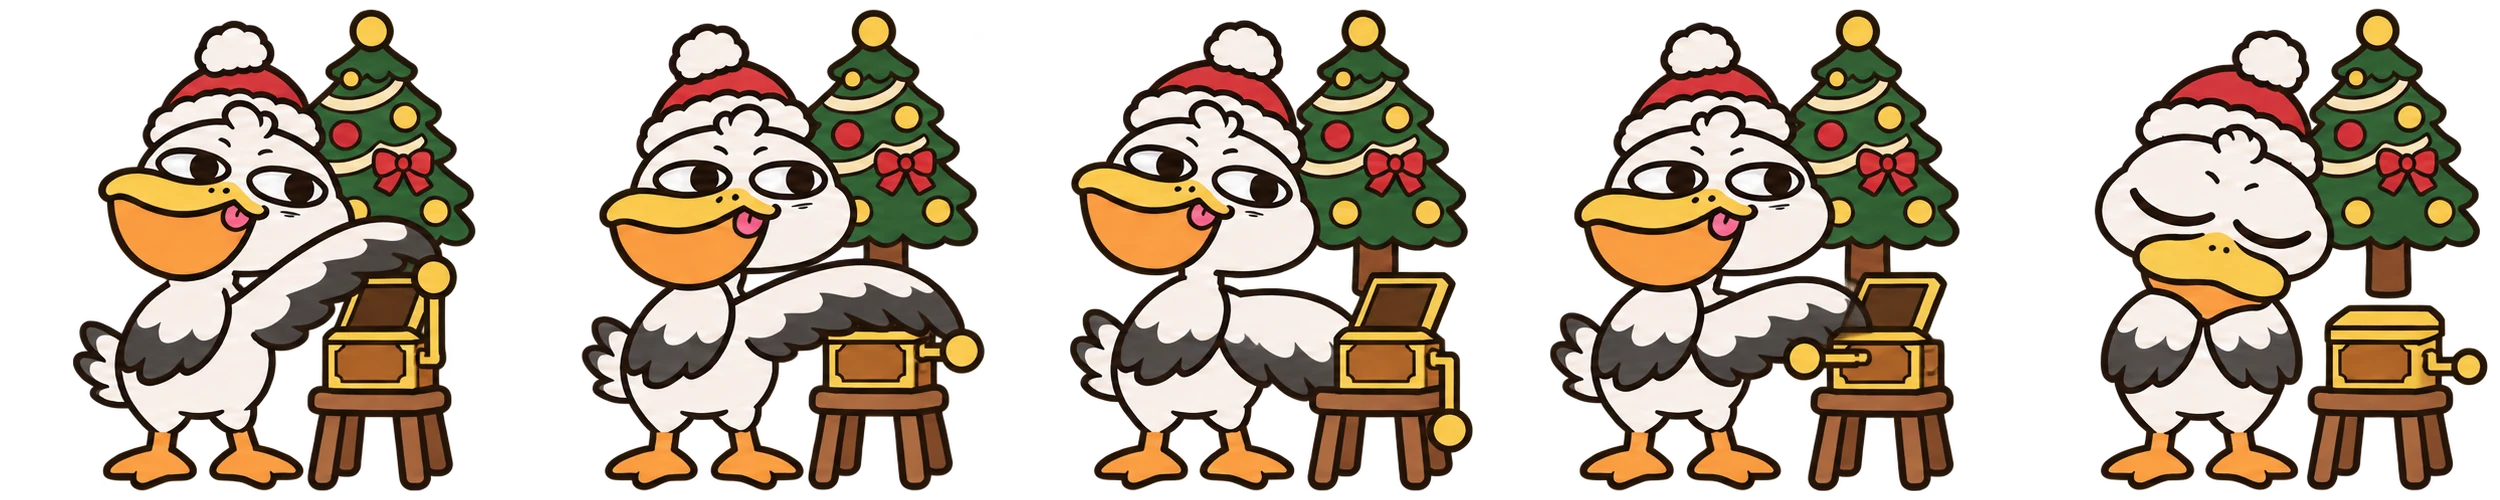
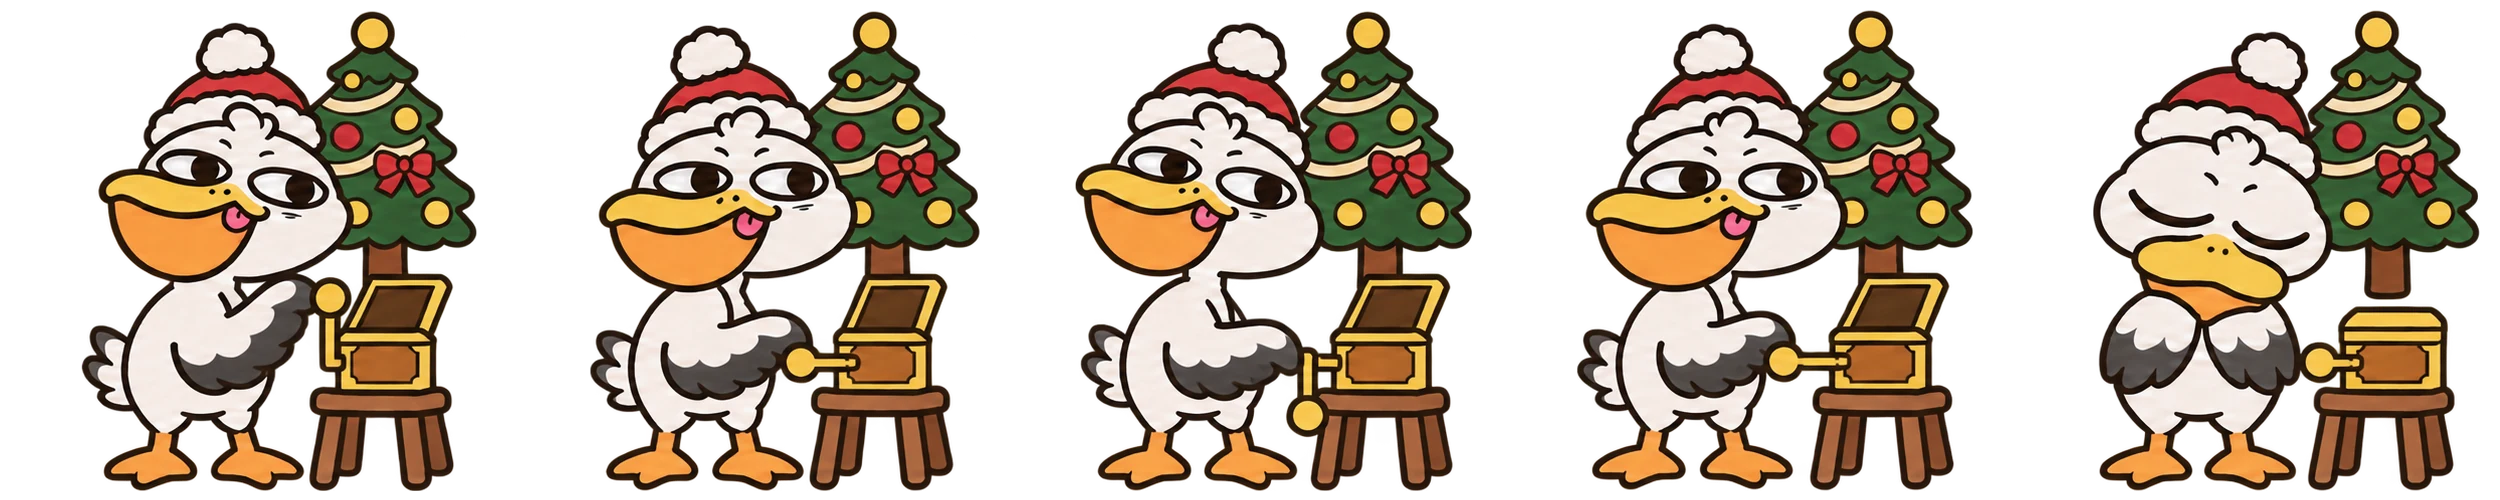
크리스마스 광장 펠리컨 오르골 그림 v2: 손잡이 돌리는 동작을 작게(주인이 다시 그림, 원본 pelican-organ-source-v2.png) (tools/make_plaza_pelican.py, web/plaza/pelican.webp)
Claude-Session: https://claude.ai/code/session_013gkWdjqDwwMfs8SrUNHEXQ

diff --git a/tools/make_plaza_pelican.py b/tools/make_plaza_pelican.py
@@ -1,6 +1,6 @@
 #!/usr/bin/env python3
 """크리스마스 광장 펠리컨 오르골 시트 정리 (XMAS_PLAZA_PLAN.md 3-1).
-원본 assets/plaza/pelican-organ-source-v1.png (주인이 ChatGPT로 그림, 가로 5칸: ①~④ 손잡이 돌리기 · ⑤ 졸기)
+원본 assets/plaza/pelican-organ-source-v2.png (주인이 ChatGPT로 그림, 가로 5칸: ①~④ 손잡이 돌리기 · ⑤ 졸기)
 → web/plaza/pelican.webp (CELL×5, 칸마다 오르골 받침대 오른쪽 다리 바닥이 ANCHOR에 오게 맞춤 — 다섯 칸 받침대가 한자리)
 칸 나누기: 투명한 세로 줄로 덩어리 다섯 개. 맞춤점: 덩어리의 y=LEG_Y 줄에서 가장 오른쪽 불투명 x(받침대 오른쪽 다리)."""
 from pathlib import Path
@@ -8,7 +8,7 @@ from PIL import Image
 import numpy as np
 
 ROOT = Path(__file__).resolve().parent.parent
-SRC = ROOT / 'assets/plaza/pelican-organ-source-v1.png'
+SRC = ROOT / 'assets/plaza/pelican-organ-source-v2.png'
 OUT = ROOT / 'web/plaza/pelican.webp'
 CELL = (500, 500)
 ANCHOR = (430, 490)  # 칸 안 받침대 오른쪽 다리 바닥 (scene.json music.pelican.anchor와 같게)
